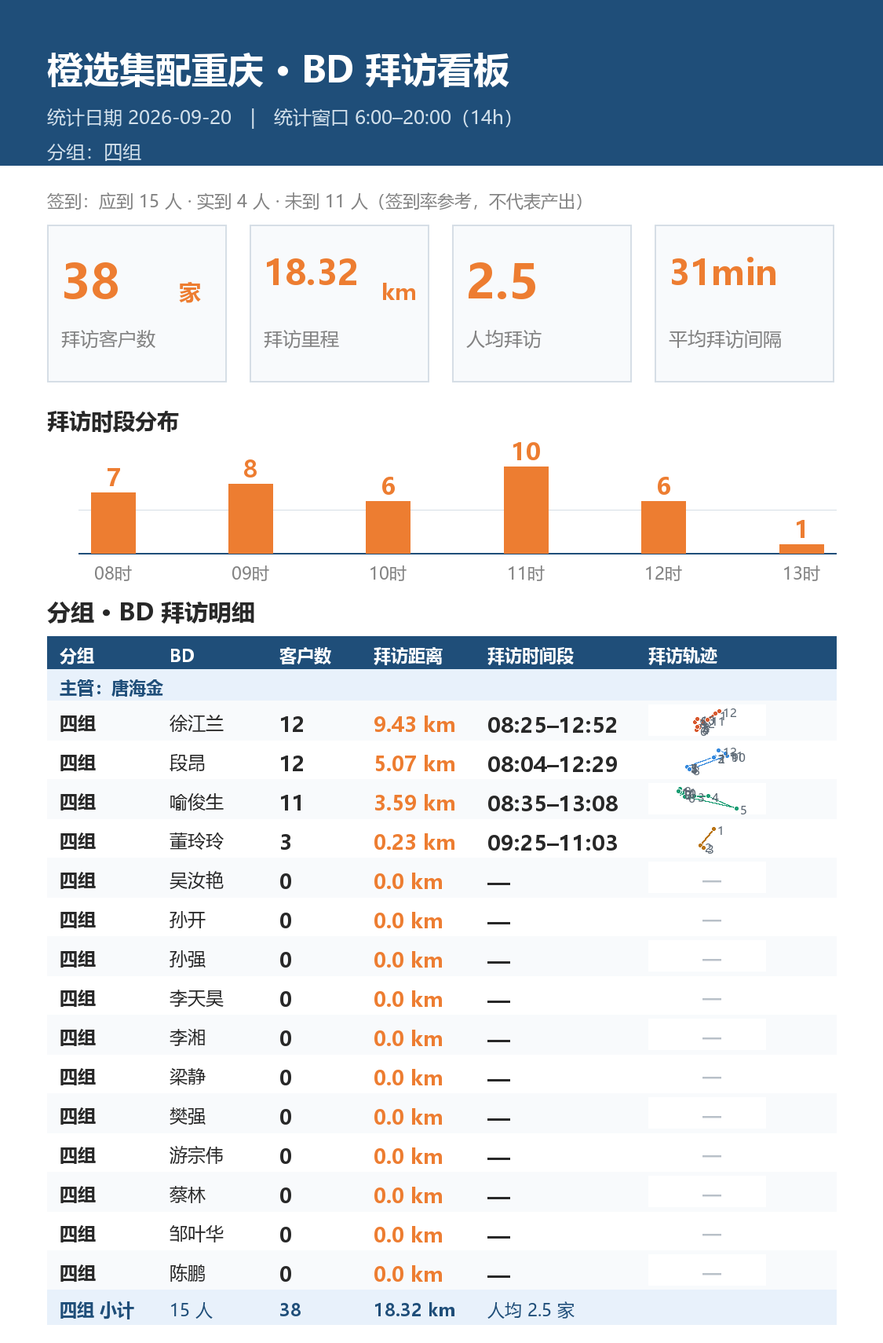
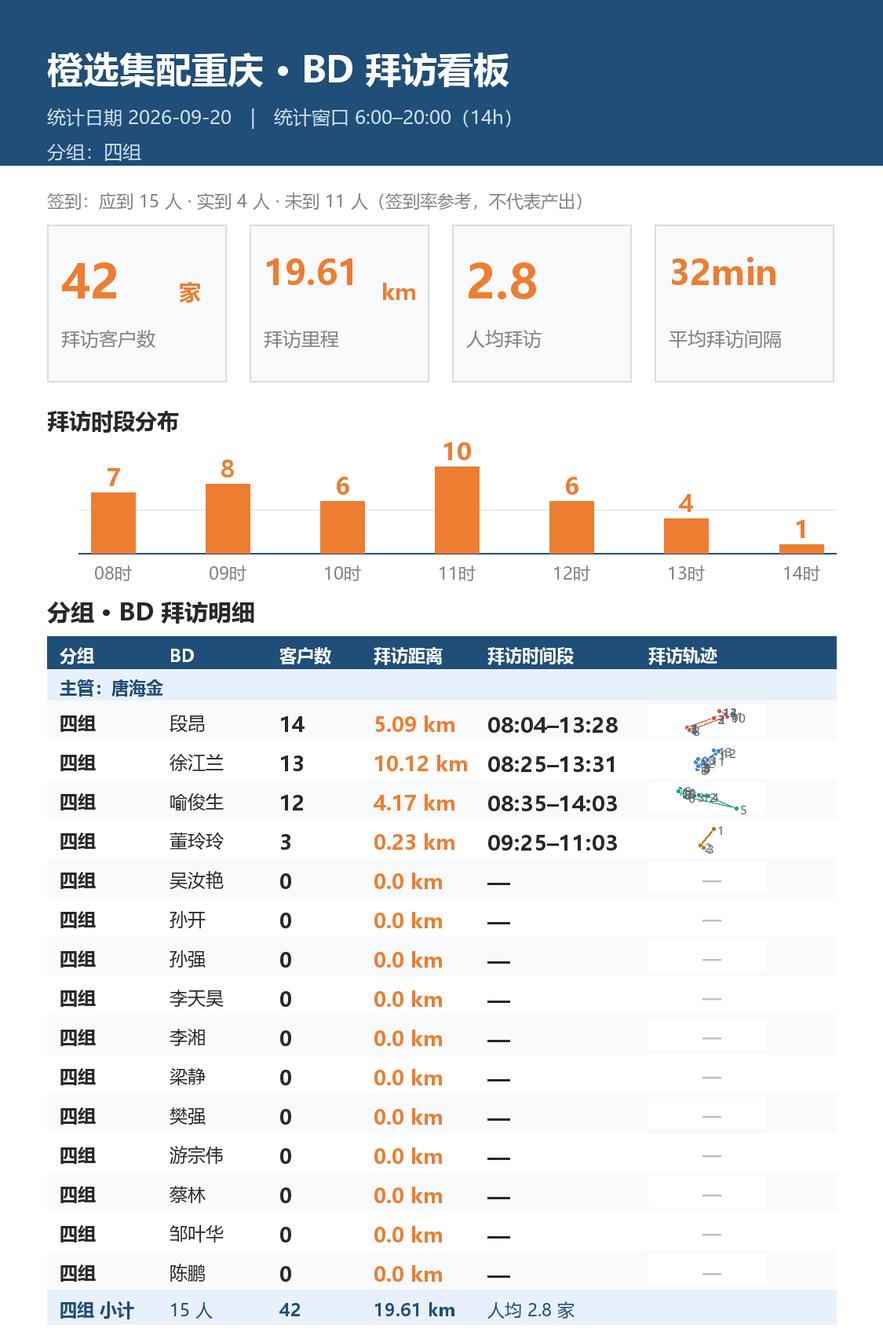
BD 拜访看板 2026-09-20

diff --git a/bd_visits/visit_board_g4.html b/bd_visits/visit_board_g4.html
@@ -107,28 +107,28 @@ td.span{font-size:16px;font-weight:600;color:#1F4E79;white-space:nowrap}
 <div class="sub">统计日期 2026-09-20　|　15 人　|　数据来源：钉钉签到</div></div>
 <div class="wrap">
 <div class="cards">
-<div class="card"><div><span class="v">38</span><span class="u">家</span></div><div class="l">拜访客户数</div></div><div class="card"><div><span class="v">18.32</span><span class="u">km</span></div><div class="l">拜访里程</div></div><div class="card"><div><span class="v">2.5</span><span class="u">家</span></div><div class="l">人均拜访</div></div><div class="card"><div><span class="v">31min</span><span class="u"></span></div><div class="l">平均拜访间隔</div></div>
+<div class="card"><div><span class="v">42</span><span class="u">家</span></div><div class="l">拜访客户数</div></div><div class="card"><div><span class="v">19.61</span><span class="u">km</span></div><div class="l">拜访里程</div></div><div class="card"><div><span class="v">2.8</span><span class="u">家</span></div><div class="l">人均拜访</div></div><div class="card"><div><span class="v">32min</span><span class="u"></span></div><div class="l">平均拜访间隔</div></div>
 </div>
-<div class="section"><h2>拜访时段分布</h2><div class="chart"><div class="crow"><div class="col"><span class="bv">7</span><div class="bar" style="height:36px"></div><span class="xl">08时</span></div><div class="col"><span class="bv">8</span><div class="bar" style="height:41px"></div><span class="xl">09时</span></div><div class="col"><span class="bv">6</span><div class="bar" style="height:32px"></div><span class="xl">10时</span></div><div class="col"><span class="bv">10</span><div class="bar" style="height:50px"></div><span class="xl">11时</span></div><div class="col"><span class="bv">6</span><div class="bar" style="height:32px"></div><span class="xl">12时</span></div><div class="col"><span class="bv">1</span><div class="bar" style="height:9px"></div><span class="xl">13时</span></div></div></div></div>
+<div class="section"><h2>拜访时段分布</h2><div class="chart"><div class="crow"><div class="col"><span class="bv">7</span><div class="bar" style="height:36px"></div><span class="xl">08时</span></div><div class="col"><span class="bv">8</span><div class="bar" style="height:41px"></div><span class="xl">09时</span></div><div class="col"><span class="bv">6</span><div class="bar" style="height:32px"></div><span class="xl">10时</span></div><div class="col"><span class="bv">10</span><div class="bar" style="height:50px"></div><span class="xl">11时</span></div><div class="col"><span class="bv">6</span><div class="bar" style="height:32px"></div><span class="xl">12时</span></div><div class="col"><span class="bv">4</span><div class="bar" style="height:22px"></div><span class="xl">13时</span></div><div class="col"><span class="bv">1</span><div class="bar" style="height:9px"></div><span class="xl">14时</span></div></div></div></div>
 <div class="section"><h2>BD 拜访明细（15 人 / 签到 4 人）</h2>
 <table class="bd"><thead><tr><th>BD</th><th class="num">客户数</th><th class="num">拜访距离</th><th class="c">拜访时间段</th><th class="c">拜访轨迹</th></tr></thead>
 <tbody><tr style="background:#F2F6FB">
-<td data-label="BD">徐江兰</td>
-<td class="num" data-label="客户数">12</td>
-<td class="num orange" data-label="拜访距离">9.43</td>
-<td class="c span" data-label="拜访时间段">08:25–12:52</td>
+<td data-label="BD">段昂</td>
+<td class="num" data-label="客户数">14</td>
+<td class="num orange" data-label="拜访距离">5.09</td>
+<td class="c span" data-label="拜访时间段">08:04–13:28</td>
 <td class="c" data-label="拜访轨迹"><a href="javascript:void(0)" onclick="openRoute(0)" style="color:#1F4E79;font-weight:600;font-size:13px;white-space:nowrap">查看详情 ›</a></td>
 </tr><tr style="background:#FFFFFF">
-<td data-label="BD">段昂</td>
-<td class="num" data-label="客户数">12</td>
-<td class="num orange" data-label="拜访距离">5.07</td>
-<td class="c span" data-label="拜访时间段">08:04–12:29</td>
+<td data-label="BD">徐江兰</td>
+<td class="num" data-label="客户数">13</td>
+<td class="num orange" data-label="拜访距离">10.12</td>
+<td class="c span" data-label="拜访时间段">08:25–13:31</td>
 <td class="c" data-label="拜访轨迹"><a href="javascript:void(0)" onclick="openRoute(1)" style="color:#1F4E79;font-weight:600;font-size:13px;white-space:nowrap">查看详情 ›</a></td>
 </tr><tr style="background:#F2F6FB">
 <td data-label="BD">喻俊生</td>
-<td class="num" data-label="客户数">11</td>
-<td class="num orange" data-label="拜访距离">3.59</td>
-<td class="c span" data-label="拜访时间段">08:35–13:08</td>
+<td class="num" data-label="客户数">12</td>
+<td class="num orange" data-label="拜访距离">4.17</td>
+<td class="c span" data-label="拜访时间段">08:35–14:03</td>
 <td class="c" data-label="拜访轨迹"><a href="javascript:void(0)" onclick="openRoute(2)" style="color:#1F4E79;font-weight:600;font-size:13px;white-space:nowrap">查看详情 ›</a></td>
 </tr><tr style="background:#FFFFFF">
 <td data-label="BD">董玲玲</td>
@@ -216,7 +216,7 @@ td.span{font-size:16px;font-weight:600;color:#1F4E79;white-space:nowrap}
 </div>
 
 <script>
-const R={"0": {"name": "徐江兰", "group": "四组", "visits": 12, "distance": 9.43, "span": "08:25–12:52", "pace": "24min", "pts": [{"lat": 30.66855902777778, "lon": 107.80062391493055, "time": "08:25", "visit": "新客拜访", "loc": "梁山街道核桃巷10号文图大楼(建设中)", "seg_km": 0.0}, {"lat": 30.657359212239584, "lon": 107.78189208984375, "time": "08:56", "visit": "回访", "loc": "双桂街道仁安路兴茂·盛世华都", "seg_km": 2.18}, {"lat": 30.651634385850695, "lon": 107.77478542751736, "time": "09:33", "visit": "维护、促单", "loc": "双桂街道玉桂路梁平时光", "seg_km": 0.93}, {"lat": 30.649035101996528, "lon": 107.77356879340277, "time": "09:40", "visit": "回访", "loc": "双桂街道钟文路中央公园城", "seg_km": 0.31}, {"lat": 30.649158528645835, "lon": 107.77355143229167, "time": "09:55", "visit": "做售后", "loc": "双桂街道钟文路中央公园城", "seg_km": 0.01}, {"lat": 30.646631130642362, "lon": 107.76994818793403, "time": "10:31", "visit": "回访", "loc": "双桂街道丹桂大道隆鑫花漾城", "seg_km": 0.44}, {"lat": 30.650628797743057, "lon": 107.77122802734375, "time": "10:47", "visit": "挽回", "loc": "双桂街道A+寿司(帝豪·时代城二期店)帝豪·时代城二期", "seg_km": 0.46}, {"lat": 30.656971571180556, "lon": 107.76813557942708, "time": "10:58", "visit": "新客拜访", "loc": "双桂街道竹贞路书香郡", "seg_km": 0.76}, {"lat": 30.660824110243055, "lon": 107.7711181640625, "time": "11:10", "visit": "回访", "loc": "双桂街道迎宾路89号", "seg_km": 0.51}, {"lat": 30.66115451388889, "lon": 107.77121473524305, "time": "11:38", "visit": "挽回", "loc": "双桂街道云复路渝峰水管有限公司", "seg_km": 0.04}, {"lat": 30.66026340060764, "lon": 107.7874462890625, "time": "12:19", "visit": "挽回", "loc": "双桂街道西城路锦绣家园", "seg_km": 1.56}, {"lat": 30.67243896484375, "lon": 107.80597819010417, "time": "12:52", "visit": "挽回", "loc": "梁山街道东池街东城丽景", "seg_km": 2.23}], "stops": [{"n": 1, "time": "08:25", "visit": "新客拜访", "loc": "梁山街道核桃巷10号文图大楼(建设中)"}, {"n": 2, "time": "08:56", "visit": "回访", "loc": "双桂街道仁安路兴茂·盛世华都"}, {"n": 3, "time": "09:33", "visit": "维护、促单", "loc": "双桂街道玉桂路梁平时光"}, {"n": 4, "time": "09:40", "visit": "回访", "loc": "双桂街道钟文路中央公园城"}, {"n": 5, "time": "09:55", "visit": "做售后", "loc": "双桂街道钟文路中央公园城"}, {"n": 6, "time": "10:31", "visit": "回访", "loc": "双桂街道丹桂大道隆鑫花漾城"}, {"n": 7, "time": "10:47", "visit": "挽回", "loc": "双桂街道A+寿司(帝豪·时代城二期店)帝豪·时代城二期"}, {"n": 8, "time": "10:58", "visit": "新客拜访", "loc": "双桂街道竹贞路书香郡"}, {"n": 9, "time": "11:10", "visit": "回访", "loc": "双桂街道迎宾路89号"}, {"n": 10, "time": "11:38", "visit": "挽回", "loc": "双桂街道云复路渝峰水管有限公司"}, {"n": 11, "time": "12:19", "visit": "挽回", "loc": "双桂街道西城路锦绣家园"}, {"n": 12, "time": "12:52", "visit": "挽回", "loc": "梁山街道东池街东城丽景"}]}, "1": {"name": "段昂", "group": "四组", "visits": 12, "distance": 5.07, "span": "08:04–12:29", "pace": "24min", "pts": [{"lat": 29.70568142361111, "lon": 107.39352728949653, "time": "08:04", "visit": "水果店\n新客户开发", "loc": "荔枝街道黎明路", "seg_km": 0.0}, {"lat": 29.705283745659724, "lon": 107.39302707248264, "time": "08:06", "visit": "张姐超级鲜果\n新客户开发", "loc": "荔枝街道黎明路", "seg_km": 0.07}, {"lat": 29.705258517795137, "lon": 107.39290771484374, "time": "08:14", "visit": "黎明路口便民菜市场\n新客开发", "loc": "荔枝街道黎明路", "seg_km": 0.01}, {"lat": 29.699981553819445, "lon": 107.37625596788195, "time": "09:05", "visit": "一家生鲜\n新客户开发", "loc": "荔枝街道太极大道涪城尚座", "seg_km": 1.71}, {"lat": 29.700158148871527, "lon": 107.37622477213542, "time": "10:06", "visit": "物资小区门口水果摊\n拜访召回", "loc": "荔枝街道太极大道物资小区", "seg_km": 0.02}, {"lat": 29.700082736545138, "lon": 107.3762584092882, "time": "10:07", "visit": "佳容超市\n拜访召回", "loc": "荔枝街道太极大道涪城尚座", "seg_km": 0.01}, {"lat": 29.70017578125, "lon": 107.37630669487847, "time": "10:27", "visit": "宜金昇\n拜访新客户", "loc": "荔枝街道太极大道物资小区", "seg_km": 0.01}, {"lat": 29.6990625, "lon": 107.3777210828993, "time": "11:00", "visit": "永香果蔬便利店\n召回客户", "loc": "荔枝街道太极大道青云大厦(太极大道)", "seg_km": 0.18}, {"lat": 29.706268174913195, "lon": 107.4014794921875, "time": "11:44", "visit": "五桂堂b08\n老客户维护", "loc": "敦仁街道中国工商银行(南门山支行)", "seg_km": 2.43}, {"lat": 29.706170247395832, "lon": 107.40150906032986, "time": "12:00", "visit": "五桂堂b02\n维护老客户", "loc": "敦仁街道人民东路", "seg_km": 0.01}, {"lat": 29.70726291232639, "lon": 107.40024848090277, "time": "12:05", "visit": "新纪元陈兴其\n老客户维护", "loc": "敦仁街道人民东路9号", "seg_km": 0.17}, {"lat": 29.709204915364584, "lon": 107.39610243055556, "time": "12:29", "visit": "鲜肉铺\n新客户开发", "loc": "敦仁街道中山路金科长江星辰", "seg_km": 0.45}], "stops": [{"n": 1, "time": "08:04", "visit": "水果店\n新客户开发", "loc": "荔枝街道黎明路"}, {"n": 2, "time": "08:06", "visit": "张姐超级鲜果\n新客户开发", "loc": "荔枝街道黎明路"}, {"n": 3, "time": "08:14", "visit": "黎明路口便民菜市场\n新客开发", "loc": "荔枝街道黎明路"}, {"n": 4, "time": "09:05", "visit": "一家生鲜\n新客户开发", "loc": "荔枝街道太极大道涪城尚座"}, {"n": 5, "time": "10:06", "visit": "物资小区门口水果摊\n拜访召回", "loc": "荔枝街道太极大道物资小区"}, {"n": 6, "time": "10:07", "visit": "佳容超市\n拜访召回", "loc": "荔枝街道太极大道涪城尚座"}, {"n": 7, "time": "10:27", "visit": "宜金昇\n拜访新客户", "loc": "荔枝街道太极大道物资小区"}, {"n": 8, "time": "11:00", "visit": "永香果蔬便利店\n召回客户", "loc": "荔枝街道太极大道青云大厦(太极大道)"}, {"n": 9, "time": "11:44", "visit": "五桂堂b08\n老客户维护", "loc": "敦仁街道中国工商银行(南门山支行)"}, {"n": 10, "time": "12:00", "visit": "五桂堂b02\n维护老客户", "loc": "敦仁街道人民东路"}, {"n": 11, "time": "12:05", "visit": "新纪元陈兴其\n老客户维护", "loc": "敦仁街道人民东路9号"}, {"n": 12, "time": "12:29", "visit": "鲜肉铺\n新客户开发", "loc": "敦仁街道中山路金科长江星辰"}]}, "2": {"name": "喻俊生", "group": "四组", "visits": 11, "distance": 3.59, "span": "08:35–13:08", "pace": "27min", "pts": [{"lat": 29.531076388888888, "lon": 108.76494710286458, "time": "08:35", "visit": "水果摊\n新开", "loc": "城西街道城西三路", "seg_km": 0.0}, {"lat": 29.530256890190973, "lon": 108.76581841362847, "time": "08:40", "visit": "新开客户", "loc": "城西街道杨家巷", "seg_km": 0.12}, {"lat": 29.529680718315973, "lon": 108.76954752604166, "time": "09:20", "visit": "果然多\n新开", "loc": "城西街道新华大道西段", "seg_km": 0.37}, {"lat": 29.529656846788196, "lon": 108.77362955729167, "time": "09:34", "visit": "正华水果\n新开", "loc": "城西街道新华大道中段954号工行黔江分行大楼", "seg_km": 0.39}, {"lat": 29.526612413194446, "lon": 108.7817333984375, "time": "11:06", "visit": "南海城菜市场", "loc": "城东街道解放路天龙大酒店", "seg_km": 0.85}, {"lat": 29.52944580078125, "lon": 108.76688802083333, "time": "11:16", "visit": "一口果", "loc": "城西街道新华大道西段101号金穗花园", "seg_km": 1.47}, {"lat": 29.53036810980903, "lon": 108.76626247829861, "time": "11:35", "visit": "新开", "loc": "城西街道城西三路59号", "seg_km": 0.12}, {"lat": 29.531288519965276, "lon": 108.76562445746528, "time": "11:41", "visit": "新开", "loc": "城西街道大梁子巷", "seg_km": 0.12}, {"lat": 29.530572916666667, "lon": 108.76564344618056, "time": "11:52", "visit": "新开", "loc": "城西街道西山路", "seg_km": 0.08}, {"lat": 29.53078369140625, "lon": 108.76504584418403, "time": "12:16", "visit": "新开", "loc": "城西街道城西三路", "seg_km": 0.06}, {"lat": 29.53084879557292, "lon": 108.76509548611111, "time": "13:08", "visit": "新开", "loc": "城西街道李家巷", "seg_km": 0.01}], "stops": [{"n": 1, "time": "08:35", "visit": "水果摊\n新开", "loc": "城西街道城西三路"}, {"n": 2, "time": "08:40", "visit": "新开客户", "loc": "城西街道杨家巷"}, {"n": 3, "time": "09:20", "visit": "果然多\n新开", "loc": "城西街道新华大道西段"}, {"n": 4, "time": "09:34", "visit": "正华水果\n新开", "loc": "城西街道新华大道中段954号工行黔江分行大楼"}, {"n": 5, "time": "11:06", "visit": "南海城菜市场", "loc": "城东街道解放路天龙大酒店"}, {"n": 6, "time": "11:16", "visit": "一口果", "loc": "城西街道新华大道西段101号金穗花园"}, {"n": 7, "time": "11:35", "visit": "新开", "loc": "城西街道城西三路59号"}, {"n": 8, "time": "11:41", "visit": "新开", "loc": "城西街道大梁子巷"}, {"n": 9, "time": "11:52", "visit": "新开", "loc": "城西街道西山路"}, {"n": 10, "time": "12:16", "visit": "新开", "loc": "城西街道城西三路"}, {"n": 11, "time": "13:08", "visit": "新开", "loc": "城西街道李家巷"}]}, "3": {"name": "董玲玲", "group": "四组", "visits": 3, "distance": 0.23, "span": "09:25–11:03", "pace": "49min", "pts": [{"lat": 30.834994032118054, "lon": 106.97144287109376, "time": "09:25", "visit": "挽回", "loc": "渠江街道后溪街", "seg_km": 0.0}, {"lat": 30.833531358506946, "lon": 106.97017605251736, "time": "09:38", "visit": "开新", "loc": "渠南街道半边街156号渠县人民市场", "seg_km": 0.2}, {"lat": 30.833363444010416, "lon": 106.97043782552083, "time": "11:03", "visit": "售后", "loc": "渠南街道半边街156号渠县人民市场", "seg_km": 0.03}], "stops": [{"n": 1, "time": "09:25", "visit": "挽回", "loc": "渠江街道后溪街"}, {"n": 2, "time": "09:38", "visit": "开新", "loc": "渠南街道半边街156号渠县人民市场"}, {"n": 3, "time": "11:03", "visit": "售后", "loc": "渠南街道半边街156号渠县人民市场"}]}};
+const R={"0": {"name": "段昂", "group": "四组", "visits": 14, "distance": 5.09, "span": "08:04–13:28", "pace": "25min", "pts": [{"lat": 29.70568142361111, "lon": 107.39352728949653, "time": "08:04", "visit": "水果店\n新客户开发", "loc": "荔枝街道黎明路", "seg_km": 0.0}, {"lat": 29.705283745659724, "lon": 107.39302707248264, "time": "08:06", "visit": "张姐超级鲜果\n新客户开发", "loc": "荔枝街道黎明路", "seg_km": 0.07}, {"lat": 29.705258517795137, "lon": 107.39290771484374, "time": "08:14", "visit": "黎明路口便民菜市场\n新客开发", "loc": "荔枝街道黎明路", "seg_km": 0.01}, {"lat": 29.699981553819445, "lon": 107.37625596788195, "time": "09:05", "visit": "一家生鲜\n新客户开发", "loc": "荔枝街道太极大道涪城尚座", "seg_km": 1.71}, {"lat": 29.700158148871527, "lon": 107.37622477213542, "time": "10:06", "visit": "物资小区门口水果摊\n拜访召回", "loc": "荔枝街道太极大道物资小区", "seg_km": 0.02}, {"lat": 29.700082736545138, "lon": 107.3762584092882, "time": "10:07", "visit": "佳容超市\n拜访召回", "loc": "荔枝街道太极大道涪城尚座", "seg_km": 0.01}, {"lat": 29.70017578125, "lon": 107.37630669487847, "time": "10:27", "visit": "宜金昇\n拜访新客户", "loc": "荔枝街道太极大道物资小区", "seg_km": 0.01}, {"lat": 29.6990625, "lon": 107.3777210828993, "time": "11:00", "visit": "永香果蔬便利店\n召回客户", "loc": "荔枝街道太极大道青云大厦(太极大道)", "seg_km": 0.18}, {"lat": 29.706268174913195, "lon": 107.4014794921875, "time": "11:44", "visit": "五桂堂b08\n老客户维护", "loc": "敦仁街道中国工商银行(南门山支行)", "seg_km": 2.43}, {"lat": 29.706170247395832, "lon": 107.40150906032986, "time": "12:00", "visit": "五桂堂b02\n维护老客户", "loc": "敦仁街道人民东路", "seg_km": 0.01}, {"lat": 29.70726291232639, "lon": 107.40024848090277, "time": "12:05", "visit": "新纪元陈兴其\n老客户维护", "loc": "敦仁街道人民东路9号", "seg_km": 0.17}, {"lat": 29.709204915364584, "lon": 107.39610243055556, "time": "12:29", "visit": "鲜肉铺\n新客户开发", "loc": "敦仁街道中山路金科长江星辰", "seg_km": 0.45}, {"lat": 29.709224717881945, "lon": 107.3960462782118, "time": "13:14", "visit": "粮食猪\n维护老客户", "loc": "敦仁街道中山路锦天名都", "seg_km": 0.01}, {"lat": 29.70919189453125, "lon": 107.39618625217014, "time": "13:28", "visit": "新鲜蔬菜\n维护老客户", "loc": "敦仁街道中山路金科长江星辰", "seg_km": 0.01}], "stops": [{"n": 1, "time": "08:04", "visit": "水果店\n新客户开发", "loc": "荔枝街道黎明路"}, {"n": 2, "time": "08:06", "visit": "张姐超级鲜果\n新客户开发", "loc": "荔枝街道黎明路"}, {"n": 3, "time": "08:14", "visit": "黎明路口便民菜市场\n新客开发", "loc": "荔枝街道黎明路"}, {"n": 4, "time": "09:05", "visit": "一家生鲜\n新客户开发", "loc": "荔枝街道太极大道涪城尚座"}, {"n": 5, "time": "10:06", "visit": "物资小区门口水果摊\n拜访召回", "loc": "荔枝街道太极大道物资小区"}, {"n": 6, "time": "10:07", "visit": "佳容超市\n拜访召回", "loc": "荔枝街道太极大道涪城尚座"}, {"n": 7, "time": "10:27", "visit": "宜金昇\n拜访新客户", "loc": "荔枝街道太极大道物资小区"}, {"n": 8, "time": "11:00", "visit": "永香果蔬便利店\n召回客户", "loc": "荔枝街道太极大道青云大厦(太极大道)"}, {"n": 9, "time": "11:44", "visit": "五桂堂b08\n老客户维护", "loc": "敦仁街道中国工商银行(南门山支行)"}, {"n": 10, "time": "12:00", "visit": "五桂堂b02\n维护老客户", "loc": "敦仁街道人民东路"}, {"n": 11, "time": "12:05", "visit": "新纪元陈兴其\n老客户维护", "loc": "敦仁街道人民东路9号"}, {"n": 12, "time": "12:29", "visit": "鲜肉铺\n新客户开发", "loc": "敦仁街道中山路金科长江星辰"}, {"n": 13, "time": "13:14", "visit": "粮食猪\n维护老客户", "loc": "敦仁街道中山路锦天名都"}, {"n": 14, "time": "13:28", "visit": "新鲜蔬菜\n维护老客户", "loc": "敦仁街道中山路金科长江星辰"}]}, "1": {"name": "徐江兰", "group": "四组", "visits": 13, "distance": 10.12, "span": "08:25–13:31", "pace": "25min", "pts": [{"lat": 30.66855902777778, "lon": 107.80062391493055, "time": "08:25", "visit": "新客拜访", "loc": "梁山街道核桃巷10号文图大楼(建设中)", "seg_km": 0.0}, {"lat": 30.657359212239584, "lon": 107.78189208984375, "time": "08:56", "visit": "回访", "loc": "双桂街道仁安路兴茂·盛世华都", "seg_km": 2.18}, {"lat": 30.651634385850695, "lon": 107.77478542751736, "time": "09:33", "visit": "维护、促单", "loc": "双桂街道玉桂路梁平时光", "seg_km": 0.93}, {"lat": 30.649035101996528, "lon": 107.77356879340277, "time": "09:40", "visit": "回访", "loc": "双桂街道钟文路中央公园城", "seg_km": 0.31}, {"lat": 30.649158528645835, "lon": 107.77355143229167, "time": "09:55", "visit": "做售后", "loc": "双桂街道钟文路中央公园城", "seg_km": 0.01}, {"lat": 30.646631130642362, "lon": 107.76994818793403, "time": "10:31", "visit": "回访", "loc": "双桂街道丹桂大道隆鑫花漾城", "seg_km": 0.44}, {"lat": 30.650628797743057, "lon": 107.77122802734375, "time": "10:47", "visit": "挽回", "loc": "双桂街道A+寿司(帝豪·时代城二期店)帝豪·时代城二期", "seg_km": 0.46}, {"lat": 30.656971571180556, "lon": 107.76813557942708, "time": "10:58", "visit": "新客拜访", "loc": "双桂街道竹贞路书香郡", "seg_km": 0.76}, {"lat": 30.660824110243055, "lon": 107.7711181640625, "time": "11:10", "visit": "回访", "loc": "双桂街道迎宾路89号", "seg_km": 0.51}, {"lat": 30.66115451388889, "lon": 107.77121473524305, "time": "11:38", "visit": "挽回", "loc": "双桂街道云复路渝峰水管有限公司", "seg_km": 0.04}, {"lat": 30.66026340060764, "lon": 107.7874462890625, "time": "12:19", "visit": "挽回", "loc": "双桂街道西城路锦绣家园", "seg_km": 1.56}, {"lat": 30.67243896484375, "lon": 107.80597819010417, "time": "12:52", "visit": "挽回", "loc": "梁山街道东池街东城丽景", "seg_km": 2.23}, {"lat": 30.674237196180556, "lon": 107.79903727213542, "time": "13:31", "visit": "挽回", "loc": "梁山街道人民北路", "seg_km": 0.69}], "stops": [{"n": 1, "time": "08:25", "visit": "新客拜访", "loc": "梁山街道核桃巷10号文图大楼(建设中)"}, {"n": 2, "time": "08:56", "visit": "回访", "loc": "双桂街道仁安路兴茂·盛世华都"}, {"n": 3, "time": "09:33", "visit": "维护、促单", "loc": "双桂街道玉桂路梁平时光"}, {"n": 4, "time": "09:40", "visit": "回访", "loc": "双桂街道钟文路中央公园城"}, {"n": 5, "time": "09:55", "visit": "做售后", "loc": "双桂街道钟文路中央公园城"}, {"n": 6, "time": "10:31", "visit": "回访", "loc": "双桂街道丹桂大道隆鑫花漾城"}, {"n": 7, "time": "10:47", "visit": "挽回", "loc": "双桂街道A+寿司(帝豪·时代城二期店)帝豪·时代城二期"}, {"n": 8, "time": "10:58", "visit": "新客拜访", "loc": "双桂街道竹贞路书香郡"}, {"n": 9, "time": "11:10", "visit": "回访", "loc": "双桂街道迎宾路89号"}, {"n": 10, "time": "11:38", "visit": "挽回", "loc": "双桂街道云复路渝峰水管有限公司"}, {"n": 11, "time": "12:19", "visit": "挽回", "loc": "双桂街道西城路锦绣家园"}, {"n": 12, "time": "12:52", "visit": "挽回", "loc": "梁山街道东池街东城丽景"}, {"n": 13, "time": "13:31", "visit": "挽回", "loc": "梁山街道人民北路"}]}, "2": {"name": "喻俊生", "group": "四组", "visits": 12, "distance": 4.17, "span": "08:35–14:03", "pace": "30min", "pts": [{"lat": 29.531076388888888, "lon": 108.76494710286458, "time": "08:35", "visit": "水果摊\n新开", "loc": "城西街道城西三路", "seg_km": 0.0}, {"lat": 29.530256890190973, "lon": 108.76581841362847, "time": "08:40", "visit": "新开客户", "loc": "城西街道杨家巷", "seg_km": 0.12}, {"lat": 29.529680718315973, "lon": 108.76954752604166, "time": "09:20", "visit": "果然多\n新开", "loc": "城西街道新华大道西段", "seg_km": 0.37}, {"lat": 29.529656846788196, "lon": 108.77362955729167, "time": "09:34", "visit": "正华水果\n新开", "loc": "城西街道新华大道中段954号工行黔江分行大楼", "seg_km": 0.39}, {"lat": 29.526612413194446, "lon": 108.7817333984375, "time": "11:06", "visit": "南海城菜市场", "loc": "城东街道解放路天龙大酒店", "seg_km": 0.85}, {"lat": 29.52944580078125, "lon": 108.76688802083333, "time": "11:16", "visit": "一口果", "loc": "城西街道新华大道西段101号金穗花园", "seg_km": 1.47}, {"lat": 29.53036810980903, "lon": 108.76626247829861, "time": "11:35", "visit": "新开", "loc": "城西街道城西三路59号", "seg_km": 0.12}, {"lat": 29.531288519965276, "lon": 108.76562445746528, "time": "11:41", "visit": "新开", "loc": "城西街道大梁子巷", "seg_km": 0.12}, {"lat": 29.530572916666667, "lon": 108.76564344618056, "time": "11:52", "visit": "新开", "loc": "城西街道西山路", "seg_km": 0.08}, {"lat": 29.53078369140625, "lon": 108.76504584418403, "time": "12:16", "visit": "新开", "loc": "城西街道城西三路", "seg_km": 0.06}, {"lat": 29.53084879557292, "lon": 108.76509548611111, "time": "13:08", "visit": "新开", "loc": "城西街道李家巷", "seg_km": 0.01}, {"lat": 29.52973117404514, "lon": 108.77091552734375, "time": "14:03", "visit": "新开", "loc": "城西街道新华大道西段636号黔江区交通运输委员会", "seg_km": 0.58}], "stops": [{"n": 1, "time": "08:35", "visit": "水果摊\n新开", "loc": "城西街道城西三路"}, {"n": 2, "time": "08:40", "visit": "新开客户", "loc": "城西街道杨家巷"}, {"n": 3, "time": "09:20", "visit": "果然多\n新开", "loc": "城西街道新华大道西段"}, {"n": 4, "time": "09:34", "visit": "正华水果\n新开", "loc": "城西街道新华大道中段954号工行黔江分行大楼"}, {"n": 5, "time": "11:06", "visit": "南海城菜市场", "loc": "城东街道解放路天龙大酒店"}, {"n": 6, "time": "11:16", "visit": "一口果", "loc": "城西街道新华大道西段101号金穗花园"}, {"n": 7, "time": "11:35", "visit": "新开", "loc": "城西街道城西三路59号"}, {"n": 8, "time": "11:41", "visit": "新开", "loc": "城西街道大梁子巷"}, {"n": 9, "time": "11:52", "visit": "新开", "loc": "城西街道西山路"}, {"n": 10, "time": "12:16", "visit": "新开", "loc": "城西街道城西三路"}, {"n": 11, "time": "13:08", "visit": "新开", "loc": "城西街道李家巷"}, {"n": 12, "time": "14:03", "visit": "新开", "loc": "城西街道新华大道西段636号黔江区交通运输委员会"}]}, "3": {"name": "董玲玲", "group": "四组", "visits": 3, "distance": 0.23, "span": "09:25–11:03", "pace": "49min", "pts": [{"lat": 30.834994032118054, "lon": 106.97144287109376, "time": "09:25", "visit": "挽回", "loc": "渠江街道后溪街", "seg_km": 0.0}, {"lat": 30.833531358506946, "lon": 106.97017605251736, "time": "09:38", "visit": "开新", "loc": "渠南街道半边街156号渠县人民市场", "seg_km": 0.2}, {"lat": 30.833363444010416, "lon": 106.97043782552083, "time": "11:03", "visit": "售后", "loc": "渠南街道半边街156号渠县人民市场", "seg_km": 0.03}], "stops": [{"n": 1, "time": "09:25", "visit": "挽回", "loc": "渠江街道后溪街"}, {"n": 2, "time": "09:38", "visit": "开新", "loc": "渠南街道半边街156号渠县人民市场"}, {"n": 3, "time": "11:03", "visit": "售后", "loc": "渠南街道半边街156号渠县人民市场"}]}};
 var rMap=null, rLayer=null, rReady=false;
 function ensureMap(){
   if(rReady) return;
